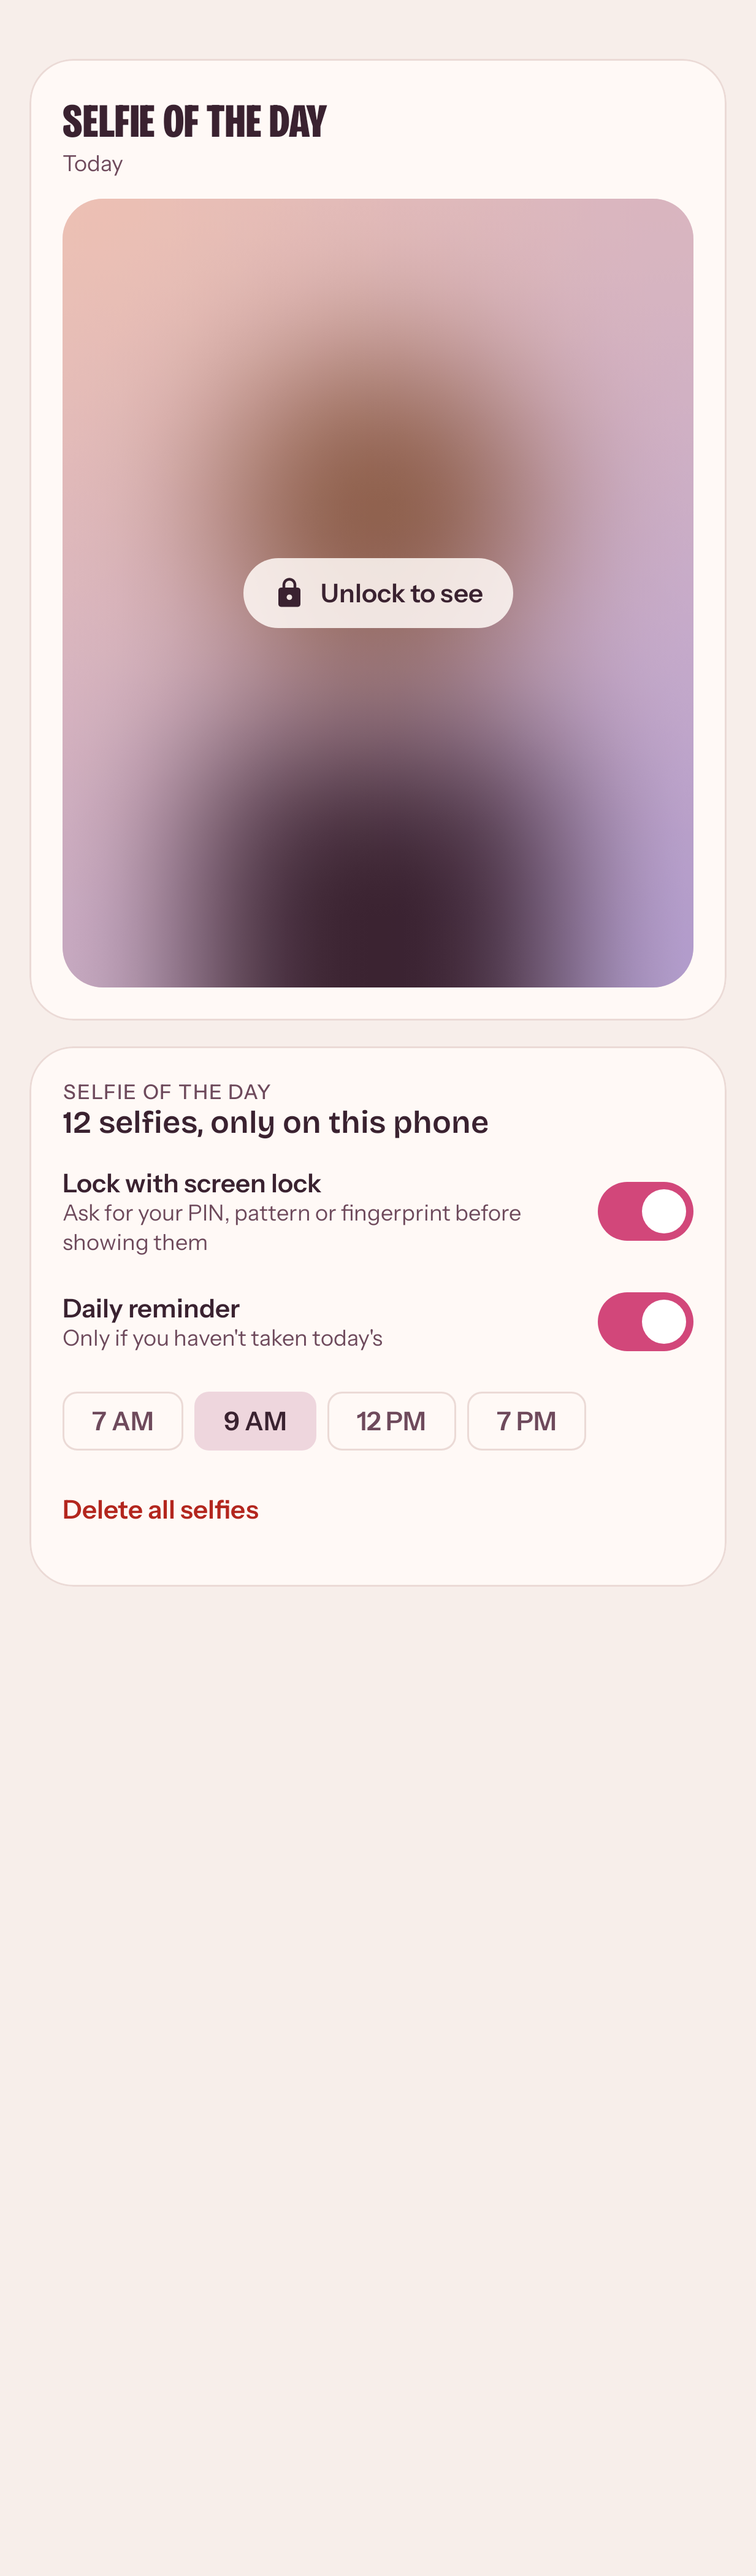
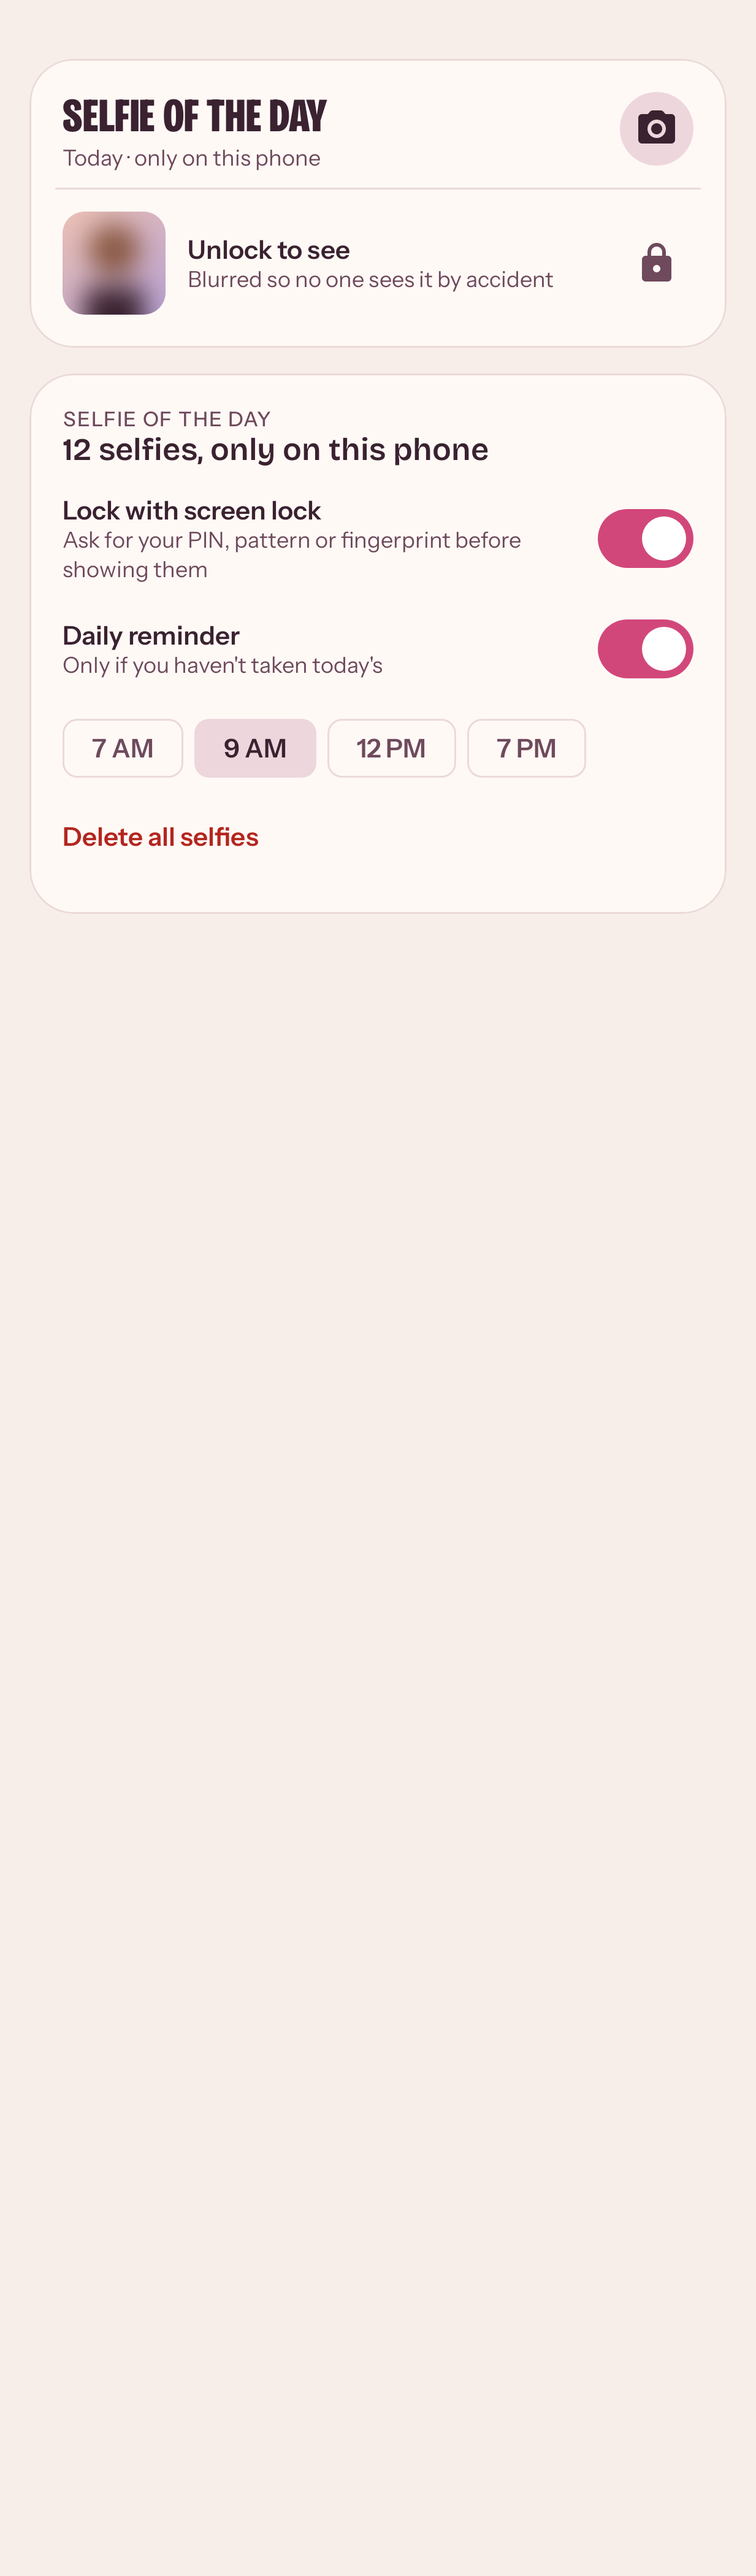
Remove the Today ribbon; compact camera-only selfie card
The selfie card now follows the Meals card: poster title, one-line
subtitle and a round camera button; with a photo, a small frosted
thumbnail row that opens the full picture. Gallery picking is gone:
a selfie is taken on the day. The scrolling strip under the Today
hero is removed. Not released.

Claude-Session: https://claude.ai/code/session_01D27EreWpUMY8orMrKfxdq9

diff --git a/app/src/main/java/com/mrboora/plate/ui/components/Selfie.kt b/app/src/main/java/com/mrboora/plate/ui/components/Selfie.kt
@@ -1,5 +1,8 @@
 package com.mrboora.plate.ui.components
 
+import androidx.compose.material3.HorizontalDivider
+import androidx.compose.material3.FilledTonalIconButton
+import androidx.compose.animation.animateContentSize
 import android.app.Activity
 import android.content.ActivityNotFoundException
 import android.content.Context
@@ -8,7 +11,6 @@ import android.graphics.Bitmap
 import android.net.Uri
 import android.view.WindowManager
 import androidx.activity.compose.rememberLauncherForActivityResult
-import androidx.activity.result.PickVisualMediaRequest
 import androidx.activity.result.contract.ActivityResultContracts
 import androidx.compose.foundation.Image
 import androidx.compose.foundation.background
@@ -43,7 +45,6 @@ import androidx.compose.material.icons.rounded.Close
 import androidx.compose.material.icons.rounded.Compare
 import androidx.compose.material.icons.rounded.Delete
 import androidx.compose.material.icons.rounded.Lock
-import androidx.compose.material.icons.rounded.PhotoLibrary
 import androidx.compose.material.icons.rounded.Visibility
 import androidx.compose.material.icons.rounded.VisibilityOff
 import androidx.compose.material3.AlertDialog
@@ -132,15 +133,14 @@ private class FrontCamera : ActivityResultContracts.TakePicture() {
         .putExtra("android.intent.extra.USE_FRONT_CAMERA", true)
 }
 
-/** Opens the camera or the photo picker and hands back the result for [day]. */
-class SelfieTakers(val takePhoto: () -> Unit, val pickPhoto: () -> Unit)
+/** Opens the camera; selfies are taken on the day, not picked from the gallery. */
+class SelfieTakers(val takePhoto: () -> Unit)
 
 @Composable
-fun rememberSelfieTakers(onCaptured: () -> Unit, onPicked: (Uri) -> Unit, onNoCamera: () -> Unit): SelfieTakers {
+fun rememberSelfieTakers(onCaptured: () -> Unit, onNoCamera: () -> Unit): SelfieTakers {
     val context = LocalContext.current
     val camera = rememberLauncherForActivityResult(FrontCamera()) { ok -> if (ok) onCaptured() }
-    val picker = rememberLauncherForActivityResult(ActivityResultContracts.PickVisualMedia()) { uri -> uri?.let(onPicked) }
-    return remember(camera, picker) {
+    return remember(camera) {
         SelfieTakers(
             takePhoto = {
                 try {
@@ -149,7 +149,6 @@ fun rememberSelfieTakers(onCaptured: () -> Unit, onPicked: (Uri) -> Unit, onNoCa
                     onNoCamera()
                 }
             },
-            pickPhoto = { picker.launch(PickVisualMediaRequest(ActivityResultContracts.PickVisualMedia.ImageOnly)) },
         )
     }
 }
@@ -165,7 +164,7 @@ private fun shortDay(day: Long): String {
 
 /** A selfie that is blurred until [revealed]; tapping the cover asks to reveal. */
 @Composable
-fun SelfiePicture(day: Long, version: Int, revealed: Boolean, locked: Boolean, onReveal: () -> Unit, modifier: Modifier = Modifier) {
+fun SelfiePicture(day: Long, version: Int, revealed: Boolean, locked: Boolean, onReveal: () -> Unit, modifier: Modifier = Modifier, badge: Boolean = true) {
     val c = Plate.colors
     val context = LocalContext.current
     val cover = produceState<Bitmap?>(null, day, version) {
@@ -173,7 +172,7 @@ fun SelfiePicture(day: Long, version: Int, revealed: Boolean, locked: Boolean, o
     }.value
     val full = if (revealed) rememberSelfie(day, Selfies.MAX_SIDE, version) else null
     Box(
-        modifier.clip(RoundedCornerShape(22.dp)).background(c.track)
+        modifier.clip(RoundedCornerShape(if (badge) 22.dp else 12.dp)).background(c.track)
             .then(if (!revealed) Modifier.clickable(onClickLabel = "Show selfie", onClick = onReveal) else Modifier),
         contentAlignment = Alignment.Center,
     ) {
@@ -184,7 +183,7 @@ fun SelfiePicture(day: Long, version: Int, revealed: Boolean, locked: Boolean, o
                 contentScale = ContentScale.Crop, filterQuality = FilterQuality.Medium, modifier = Modifier.fillMaxSize(),
             )
         }
-        if (!revealed) {
+        if (!revealed && badge) {
             Row(
                 Modifier.clip(CircleShape).background(c.card.copy(alpha = 0.85f)).padding(horizontal = 16.dp, vertical = 10.dp),
                 verticalAlignment = Alignment.CenterVertically,
@@ -198,8 +197,9 @@ fun SelfiePicture(day: Long, version: Int, revealed: Boolean, locked: Boolean, o
 }
 
 /**
- * Today's card. Empty: an invitation to take one. Taken: the blurred photo, with
- * hide, replace, compare and delete once it's showing.
+ * Today's card, built like the Meals card: a poster title, a line under it and one round
+ * camera button. With a photo, a small frosted thumbnail; tap it to see the photo full size.
+ * Camera only: a selfie is taken on the day, not picked from the gallery.
  */
 @Composable
 fun SelfieCard(
@@ -229,52 +229,48 @@ fun SelfieCard(
             dismissButton = { TextButton({ confirmDelete = false }) { Text("Keep") } },
         )
     }
-    PlateCard(modifier) {
+    PlateCard(modifier.animateContentSize(), padding = 14.dp) {
         Row(verticalAlignment = Alignment.CenterVertically) {
-            Column(Modifier.weight(1f)) {
+            Column(Modifier.weight(1f).padding(start = 4.dp)) {
                 Text("SELFIE OF THE DAY", style = PosterType.section)
                 Text(
-                    if (has) shortDay(day) else if (isToday) "Just for you. It stays on this phone." else "No selfie on ${shortDay(day)}",
+                    if (has) "${shortDay(day)} · only on this phone" else "One photo a day · only on this phone",
                     style = MaterialTheme.typography.bodySmall, color = c.muted,
                 )
             }
-            if (has && revealed) IconButton(onHide) { Icon(Icons.Rounded.VisibilityOff, "Hide selfie") }
+            if (isToday) {
+                FilledTonalIconButton(takers.takePhoto) {
+                    Icon(Icons.Rounded.CameraAlt, if (has) "Retake selfie" else "Take selfie")
+                }
+            }
         }
-        Spacer(Modifier.height(12.dp))
         if (has) {
-            SelfiePicture(day, version, revealed, locked && !revealed, onReveal, Modifier.fillMaxWidth().aspectRatio(4f / 5f))
-            if (revealed) {
-                Spacer(Modifier.height(10.dp))
-                Row(horizontalArrangement = Arrangement.spacedBy(8.dp), verticalAlignment = Alignment.CenterVertically) {
+            HorizontalDivider(Modifier.padding(vertical = 8.dp), color = c.line)
+            if (!revealed) {
+                Row(
+                    Modifier.fillMaxWidth().clip(RoundedCornerShape(14.dp)).clickable(onClickLabel = "Show selfie", onClick = onReveal).padding(4.dp),
+                    verticalAlignment = Alignment.CenterVertically,
+                ) {
+                    SelfiePicture(day, version, revealed = false, locked = locked, onReveal = onReveal, modifier = Modifier.size(56.dp), badge = false)
+                    Spacer(Modifier.width(12.dp))
+                    Column(Modifier.weight(1f)) {
+                        Text(if (locked) "Unlock to see" else "Tap to see", style = MaterialTheme.typography.titleSmall)
+                        Text("Blurred so no one sees it by accident", style = MaterialTheme.typography.bodySmall, color = c.muted)
+                    }
+                    Icon(if (locked) Icons.Rounded.Lock else Icons.Rounded.Visibility, null, tint = c.muted, modifier = Modifier.padding(end = 8.dp))
+                }
+            } else {
+                SelfiePicture(day, version, revealed = true, locked = false, onReveal = {}, modifier = Modifier.fillMaxWidth().aspectRatio(4f / 5f))
+                Spacer(Modifier.height(8.dp))
+                Row(verticalAlignment = Alignment.CenterVertically) {
                     if (canCompare) {
-                        Button(onCompare, contentPadding = PaddingValues(horizontal = 16.dp)) {
+                        TextButton(onCompare) {
                             Icon(Icons.Rounded.Compare, null, Modifier.size(18.dp)); Spacer(Modifier.width(6.dp)); Text("Compare")
                         }
                     }
-                    OutlinedButton(if (isToday) takers.takePhoto else takers.pickPhoto, contentPadding = PaddingValues(horizontal = 16.dp)) {
-                        Text(if (isToday) "Retake" else "Replace")
-                    }
                     Spacer(Modifier.weight(1f))
+                    IconButton(onHide) { Icon(Icons.Rounded.VisibilityOff, "Hide selfie", tint = c.muted) }
                     IconButton({ confirmDelete = true }) { Icon(Icons.Rounded.Delete, "Delete selfie", tint = c.muted) }
-                }
-            }
-        } else {
-            if (isToday) {
-                Text(
-                    "Take one photo a day and watch the change over weeks. It's blurred until you tap it, " +
-                        "never uploaded and not included in backups.",
-                    style = MaterialTheme.typography.bodyMedium, color = c.muted,
-                )
-                Spacer(Modifier.height(12.dp))
-            }
-            Row(horizontalArrangement = Arrangement.spacedBy(8.dp)) {
-                if (isToday) {
-                    Button(takers.takePhoto, Modifier.weight(1f)) {
-                        Icon(Icons.Rounded.CameraAlt, null, Modifier.size(18.dp)); Spacer(Modifier.width(6.dp)); Text("Take selfie")
-                    }
-                }
-                OutlinedButton(takers.pickPhoto, if (isToday) Modifier.weight(1f) else Modifier) {
-                    Icon(Icons.Rounded.PhotoLibrary, null, Modifier.size(18.dp)); Spacer(Modifier.width(6.dp)); Text("From photos")
                 }
             }
         }

diff --git a/app/src/test/java/com/mrboora/plate/ScreenshotTest.kt b/app/src/test/java/com/mrboora/plate/ScreenshotTest.kt
@@ -178,7 +178,7 @@ class ScreenshotTest {
             androidx.compose.foundation.layout.Column(
                 Modifier.padding(top = 32.dp_), verticalArrangement = androidx.compose.foundation.layout.Arrangement.spacedBy(14.dp_),
             ) {
-                val takers = com.mrboora.plate.ui.components.SelfieTakers({}, {})
+                val takers = com.mrboora.plate.ui.components.SelfieTakers({})
                 com.mrboora.plate.ui.components.SelfieCard(
                     today, has = true, version = 0, revealed = false, locked = true, canCompare = true, takers = takers,
                     onReveal = {}, onHide = {}, onCompare = {}, onDelete = {}, modifier = Modifier.padding(horizontal = 16.dp_),
@@ -197,7 +197,7 @@ class ScreenshotTest {
             androidx.compose.foundation.layout.Column(
                 Modifier.padding(top = 32.dp_), verticalArrangement = androidx.compose.foundation.layout.Arrangement.spacedBy(14.dp_),
             ) {
-                val takers = com.mrboora.plate.ui.components.SelfieTakers({}, {})
+                val takers = com.mrboora.plate.ui.components.SelfieTakers({})
                 com.mrboora.plate.ui.components.SelfieCard(
                     today, has = false, version = 0, revealed = false, locked = false, canCompare = false, takers = takers,
                     onReveal = {}, onHide = {}, onCompare = {}, onDelete = {}, modifier = Modifier.padding(horizontal = 16.dp_),

diff --git a/app/src/main/java/com/mrboora/plate/ui/screens/Today.kt b/app/src/main/java/com/mrboora/plate/ui/screens/Today.kt
@@ -57,7 +57,6 @@ import com.mrboora.plate.ui.components.PlateCard
 import com.mrboora.plate.ui.components.ProgressRing
 import com.mrboora.plate.ui.components.TABULAR
 import com.mrboora.plate.ui.components.IndexLabel
-import com.mrboora.plate.ui.components.Ticker
 import com.mrboora.plate.ui.components.MenuLine
 import com.mrboora.plate.ui.theme.PosterType
 import com.mrboora.plate.ui.theme.Plate
@@ -185,11 +184,6 @@ private fun Hero(eaten: Float, t: Targets, entries: List<FoodEntry>, modifier: M
                     Macro("Fat", entries.sumOf { it.fat.toDouble() }.toFloat(), t.fatG, c.fat, Modifier.weight(1f))
                 }
             }
-            // Food-label ribbon of what's on today's plate, edge to edge along the bottom of the card.
-            Ticker(
-                if (entries.isEmpty()) listOf("Nothing on your plate yet", "6,000+ Canadian foods", "Scan a barcode", "14 restaurant menus")
-                else entries.map { "${it.name.substringBefore(',').take(24)} ${it.kcal.roundToInt()}" },
-            )
         }
     }
 }

diff --git a/app/src/main/java/com/mrboora/plate/ui/PlateApp.kt b/app/src/main/java/com/mrboora/plate/ui/PlateApp.kt
@@ -139,7 +139,6 @@ private fun Main(vm: PlateViewModel, profile: Profile) {
     }
     val takers = com.mrboora.plate.ui.components.rememberSelfieTakers(
         onCaptured = { vm.saveSelfie(day, done = ::selfieSaved) },
-        onPicked = { uri -> vm.saveSelfie(day, uri, ::selfieSaved) },
         onNoCamera = { scope.launch { snackbar.showSnackbar("No camera app found. Pick a photo instead.") } },
     )
     if (comparing) com.mrboora.plate.ui.components.SelfieCompare(selfieDays, selfieVersion) { comparing = false }

diff --git a/docs/design-system.md b/docs/design-system.md
@@ -25,8 +25,10 @@ for sentences. Colours come only from `PlateColors`. The ribbon uses `dayOver` (
 
 ## Components
 
-- **Ticker** (`ui/components/Poster.kt`): a slow sideways ribbon of today's foods and their kcal.
-  It stays still when the phone's animations are off, and screen readers hear the plain list.
+- **Ticker** (`ui/components/Poster.kt`): a slow sideways ribbon. Removed from Today in 2.3 at the
+  user's request (too busy); kept for possible later use.
+- **MenuLine**: name, dotted leader, number in the poster cut, all on one baseline. Calories,
+  weights and targets read like prices on a menu board (2.3).
 - **IndexLabel**: 01, 02… in the accent colour, in front of each logged food.
 - **PortionHelper** (`ui/screens/AddFood.kt` and `data/Portions.kt`):
   - Kitchen measures: tsp, tbsp, ¼, ½ and 1 cup. Cups are Canada's 250 ml.
@@ -37,7 +39,7 @@ for sentences. Colours come only from `PlateColors`. The ribbon uses `dayOver` (
 
 ## Selfie of the day (2.2)
 
-- **SelfieCard** (Today): poster title. Before any photo, it shows Take selfie (front camera) and From photos.
+- **SelfieCard** (Today): built like the Meals card, with a poster title, a line under it and one round camera button. Camera only; there's no gallery option.
   - A photo shows as a frosted cover: a 48 px copy box-blurred three times, so it looks the same on every Android version.
   - Tap it, or use the screen lock if that's on, to see the photo, with Compare, Retake and Delete.
 - **SelfieCompare**: full screen. Drag across to wipe from the before photo to the after photo. Two rows of day chips pick the days.
